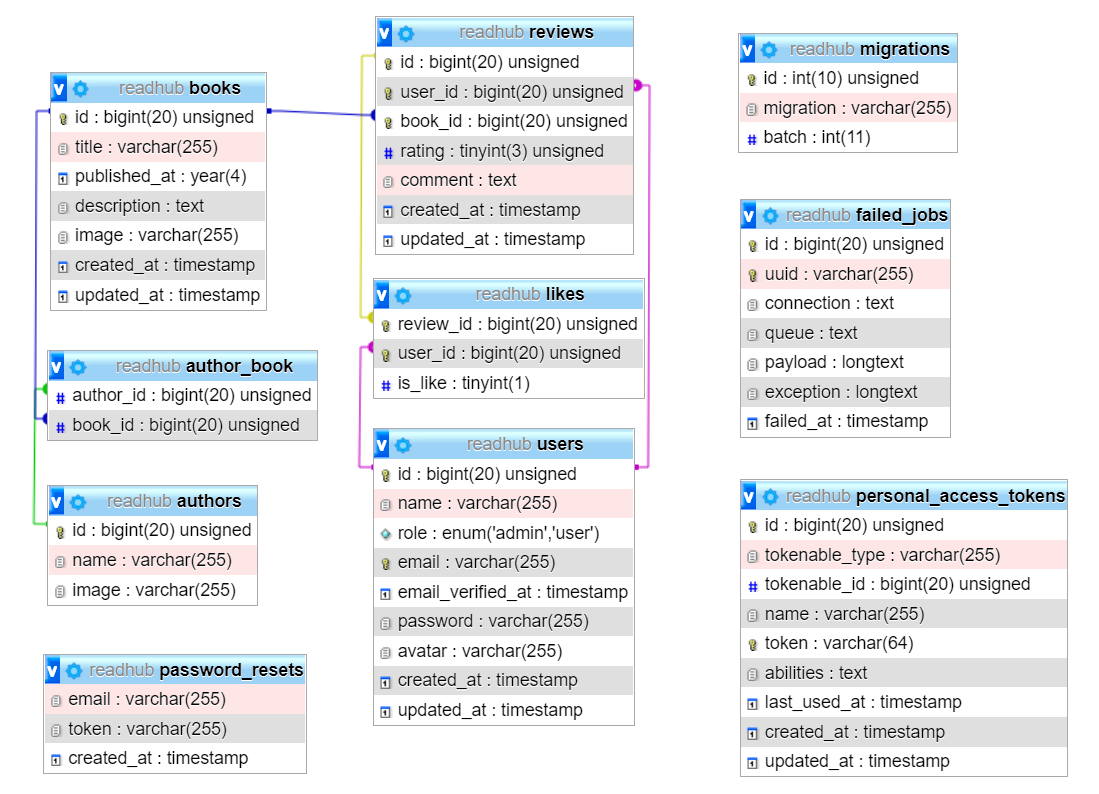
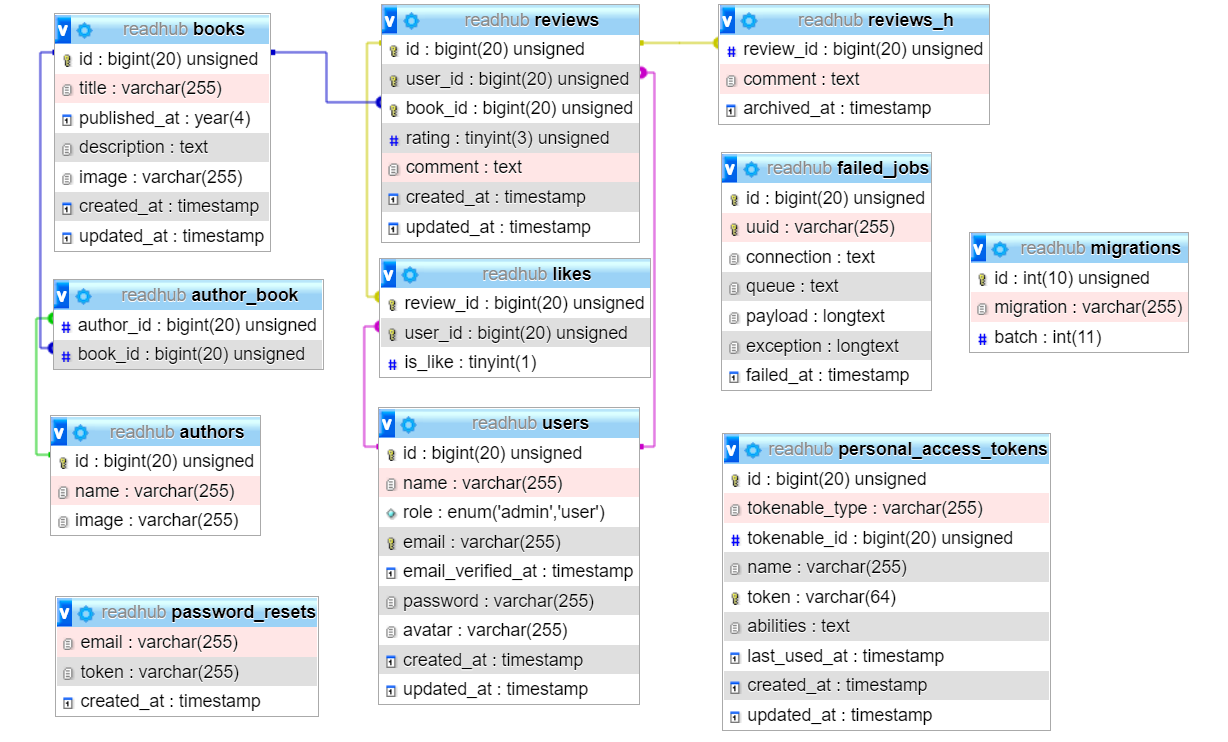
Update the readme file
- Modified the intro
- Added a note about liking and disliking a review
- Updated the ERD

diff --git a/README.md b/README.md
@@ -1,6 +1,6 @@
 # ReadHub
 
-Book review and rating Backend API built using ***Laravel***
+Book review and rating Backend API in ***Laravel***
 
 ## Features
 
@@ -35,6 +35,8 @@ This application has three types of roles:-
 1- Review a book <br>
 2- Update and delete their review <br>
 3- Like or dislike a review <br>
+
+_Note: The user can't like and dislike a review at the same time. If he liked a review and requested to dislike it, that only will remove the like._ <br>
 <br>
 
 ## Entity relationship diagram
